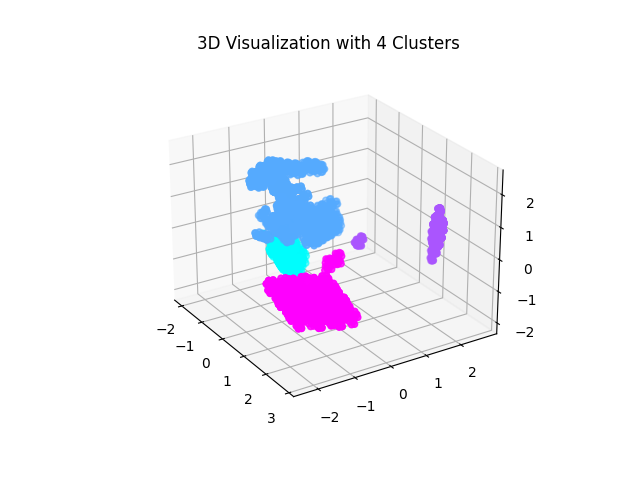
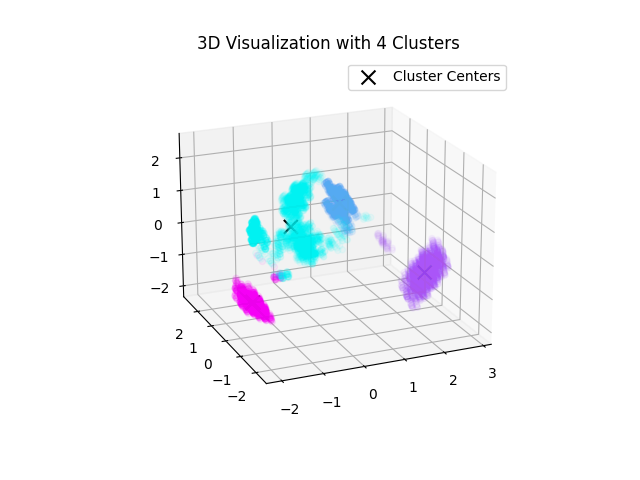
Minor tweaks to delivery 7

diff --git a/delivery_seven/mushroomsKmeans.py b/delivery_seven/mushroomsKmeans.py
@@ -4,6 +4,7 @@ import pandas as pd
 from mpl_toolkits.mplot3d import axes3d, art3d
 
 data = pd.read_csv('agaricus-lepiota.data', sep=',', header=0, engine='python')
+# data.pop('edibility')
 
 from sklearn import metrics
 from sklearn.cluster import KMeans
@@ -24,7 +25,7 @@ X_reduced = pca.fit_transform(X_encoded.toarray())
 def compute_silhouette_scores(X, k_values):
     scores = []
     for k in k_values:
-        kmeans = KMeans(n_clusters=k, n_init=10).fit(X)
+        kmeans = KMeans(n_clusters=k).fit(X)
         score = silhouette_score(X, kmeans.labels_)
         scores.append(score)
     return scores
@@ -44,10 +45,16 @@ plot_silhouette_scores(k_values, silhouette_scores)
 
 optimal_k = k_values[silhouette_scores.index(max(silhouette_scores))]
 
-kmeans = KMeans(n_clusters=optimal_k, n_init=10).fit(X_reduced)
+print(f'Optimal k: {optimal_k}')
+
+kmeans = KMeans(n_clusters=optimal_k).fit(X_reduced)
+cluster_centers = kmeans.cluster_centers_
 
 fig = plt.figure()
 ax = fig.add_subplot(111, projection='3d')
-ax.scatter(X_reduced[:, 0], X_reduced[:, 1], X_reduced[:, 2], c=kmeans.labels_, cmap='cool')
+ax.scatter(X_reduced[:, 0], X_reduced[:, 1], X_reduced[:, 2], c=kmeans.labels_, cmap='cool', alpha=0.05)
+ax.scatter(cluster_centers[:, 0], cluster_centers[:, 1], cluster_centers[:, 2], c='black', marker='x', s=100, label='Cluster Centers')
+
 ax.set_title(f'3D Visualization with {optimal_k} Clusters')
+ax.legend()
 plt.show()
